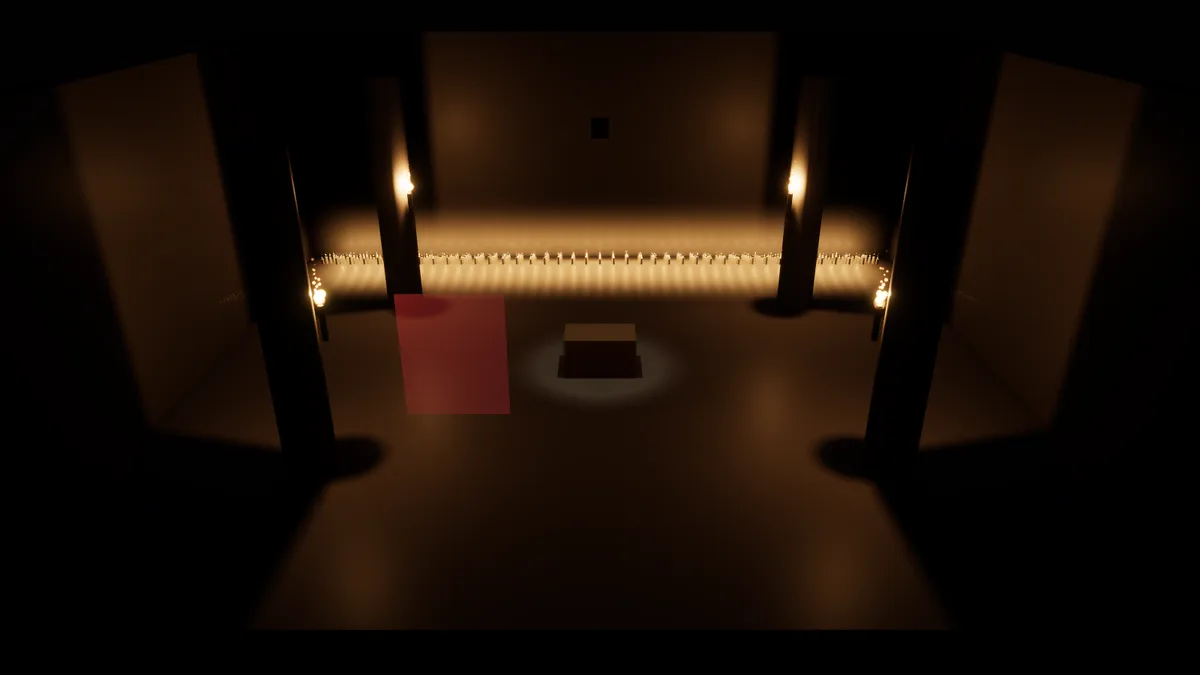
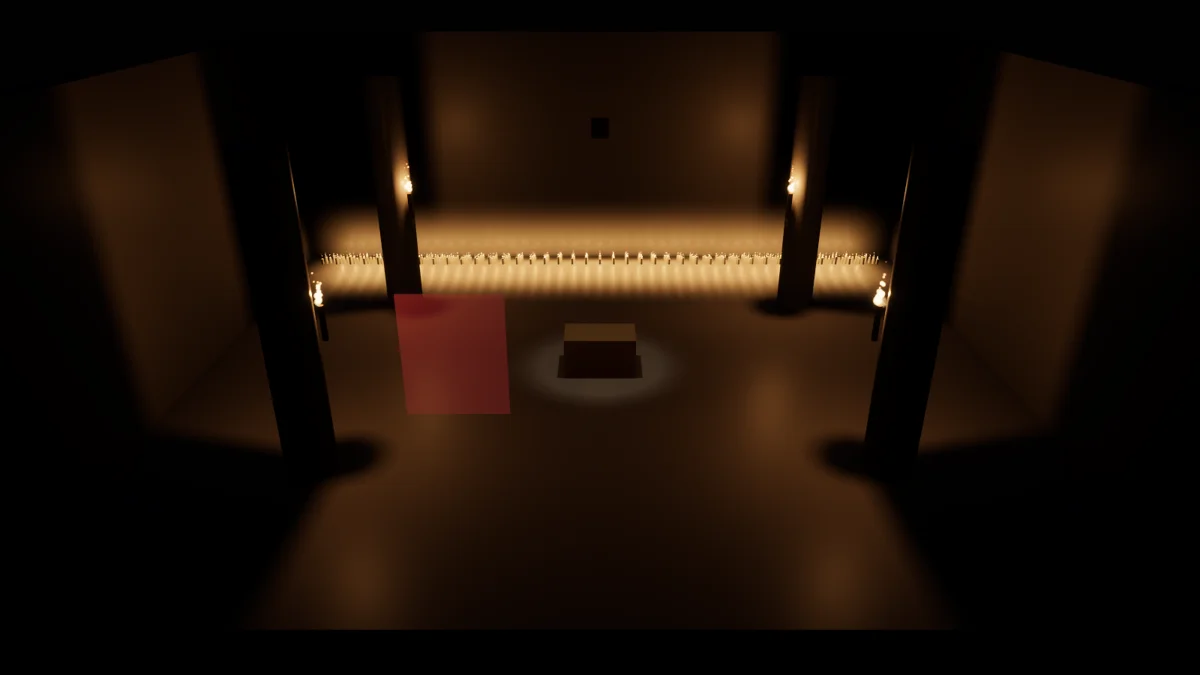
feat: light radius so torches beside walls don't blow them out
A point or spot light now has a radius, the size of its glowing part.
It reaches a point as (1 + r²) / (d² + r²): inverse square far away, the
same at a metre whatever the radius, and capped near 1 / r² close up. A
torch a hand from a pillar no longer burns it white while the room stays
dim. The radius also sets how soft the light's shadows are. It defaults
to 0.1 m, the old fixed softness, and the Crypt's torches use 0.5.

diff --git a/src/Super/View.cs b/src/Super/View.cs
@@ -123,17 +123,22 @@ public sealed class View
     /// the distance, reaching nothing at the range. The key names it across frames, so its
     /// shadow stays as sharp as it moves; use a stable ID. A frame can have up to
     /// <see cref="LocalLight.MaxPerFrame"/>, and lights with shadows share an atlas, so the
-    /// biggest on screen get the sharpest ones. See "Point and spot lights" in docs/views.md.
+    /// biggest on screen get the sharpest ones. The radius is how big the glowing part is:
+    /// raise it for a light right beside a wall, such as a torch in a bracket, so the wall
+    /// isn't blown out. It also softens the shadows. See "Point and spot lights" in
+    /// docs/views.md.
     /// </summary>
-    public void PointLight(int key, Vector3 position, Vector3 color, float range, bool shadows = true)
+    public void PointLight(
+        int key, Vector3 position, Vector3 color, float range, bool shadows = true, float radius = LocalLight.DefaultRadius)
     {
-        CheckLight(position, color, range);
+        CheckLight(position, color, range, radius);
         _lights.Add(new LocalLight
         {
             Key = key,
             Position = position,
             Radiance = color,
             Range = range,
+            Radius = radius,
             CastsShadow = shadows,
         });
     }
@@ -145,9 +150,17 @@ public sealed class View
     /// Otherwise it's like <see cref="PointLight"/>, though it costs a sixth as much shadow.
     /// </summary>
     public void SpotLight(
-        int key, Vector3 position, Vector3 direction, Vector3 color, float range, float innerAngle, float outerAngle, bool shadows = true)
+        int key,
+        Vector3 position,
+        Vector3 direction,
+        Vector3 color,
+        float range,
+        float innerAngle,
+        float outerAngle,
+        bool shadows = true,
+        float radius = LocalLight.DefaultRadius)
     {
-        CheckLight(position, color, range);
+        CheckLight(position, color, range, radius);
         if (!(direction.LengthSquared() > 1e-12f) || !float.IsFinite(direction.LengthSquared()))
         {
             throw new ArgumentException($"A spot light needs a direction to shine in, not {direction}.", nameof(direction));
@@ -171,6 +184,7 @@ public sealed class View
             Position = position,
             Radiance = color,
             Range = range,
+            Radius = radius,
             Direction = Vector3.Normalize(direction),
             InnerAngle = innerAngle,
             OuterAngle = outerAngle,
@@ -178,7 +192,7 @@ public sealed class View
         });
     }
 
-    private void CheckLight(Vector3 position, Vector3 color, float range)
+    private void CheckLight(Vector3 position, Vector3 color, float range, float radius)
     {
         if (_lights.Count >= LocalLight.MaxPerFrame)
         {
@@ -189,6 +203,12 @@ public sealed class View
         if (!(range > 0f) || !float.IsFinite(range))
         {
             throw new ArgumentOutOfRangeException(nameof(range), range, "A light's range must be more than 0 metres.");
+        }
+
+        if (!(radius > 0f && radius < range))
+        {
+            throw new ArgumentOutOfRangeException(
+                nameof(radius), radius, "A light's radius must be more than 0 metres and less than its range.");
         }
 
         if (!float.IsFinite(position.X + position.Y + position.Z))

diff --git a/tests/Super.Tests/LocalLightTests.cs b/tests/Super.Tests/LocalLightTests.cs
@@ -68,6 +68,25 @@ public class LocalLightTests
     }
 
     [Fact]
+    public void A_lights_radius_reaches_the_gpu_and_none_given_means_the_default()
+    {
+        LocalLight[] lights =
+        [
+            Point(1, new Vector3(0f, 0f, -5f), 2f) with { Radius = 0.5f },
+            Point(2, new Vector3(0f, 0f, -6f), 2f),
+            Point(3, new Vector3(0f, 0f, -7f), 2f) with { Radius = float.NaN },
+            Point(4, new Vector3(0f, 0f, -8f), 2f) with { Radius = -1f },
+        ];
+
+        var (_, gpu, _) = Prepare(lights);
+
+        Assert.Equal(0.5f, gpu[0].Fade.Y);
+        Assert.Equal(0.1f, gpu[1].Fade.Y);
+        Assert.Equal(0.1f, gpu[2].Fade.Y);
+        Assert.Equal(0.1f, gpu[3].Fade.Y);
+    }
+
+    [Fact]
     public void A_point_lights_shadow_takes_six_tiles_and_a_spots_one()
     {
         LocalLight[] lights =
@@ -200,6 +219,13 @@ public class LocalLightTests
         Assert.False(view.DrawnLights[0].IsSpot);
         Assert.Equal(-Vector3.UnitY, view.DrawnLights[1].Direction);
         Assert.False(view.DrawnLights[1].CastsShadow);
+        Assert.Equal(0.1f, view.DrawnLights[0].Radius);
+        Assert.Equal(0.1f, view.DrawnLights[1].Radius);
+
+        view.PointLight(3, Vector3.Zero, Vector3.One, 9f, radius: 0.5f);
+        view.SpotLight(4, Vector3.Zero, -Vector3.UnitY, Vector3.One, 6f, 0.3f, 0.6f, radius: 0.25f);
+        Assert.Equal(0.5f, view.DrawnLights[2].Radius);
+        Assert.Equal(0.25f, view.DrawnLights[3].Radius);
 
         view.Begin(0f);
         Assert.Equal(0, view.DrawnLights.Length);
@@ -214,6 +240,13 @@ public class LocalLightTests
         Assert.Contains(
             "A light's range must be more than 0 metres.",
             Assert.Throws<ArgumentOutOfRangeException>(() => view.PointLight(1, Vector3.Zero, Vector3.One, 0f)).Message);
+        const string radius = "A light's radius must be more than 0 metres and less than its range.";
+        Assert.Contains(radius, Assert.Throws<ArgumentOutOfRangeException>(() => view.PointLight(1, Vector3.Zero, Vector3.One, 2f, radius: 0f)).Message);
+        Assert.Contains(radius, Assert.Throws<ArgumentOutOfRangeException>(() => view.PointLight(1, Vector3.Zero, Vector3.One, 2f, radius: 2f)).Message);
+        Assert.Contains(radius, Assert.Throws<ArgumentOutOfRangeException>(() => view.PointLight(1, Vector3.Zero, Vector3.One, 2f, radius: float.NaN)).Message);
+        Assert.Contains(
+            radius,
+            Assert.Throws<ArgumentOutOfRangeException>(() => view.SpotLight(1, Vector3.Zero, Vector3.UnitY, Vector3.One, 2f, 0.1f, 0.4f, radius: -1f)).Message);
         Assert.Contains(
             "A light's color can't be negative",
             Assert.Throws<ArgumentException>(() => view.PointLight(1, Vector3.Zero, -Vector3.One, 1f)).Message);

diff --git a/examples/Crypt/CryptGame.cs b/examples/Crypt/CryptGame.cs
@@ -96,7 +96,9 @@ public sealed class CryptGame : IGame
             view.Model(TorchKey + i, ModelRef.Cylinder, Matrix4x4.CreateScale(0.08f, 0.5f, 0.08f) * Matrix4x4.CreateTranslation(bracket), new Vector3(0.25f, 0.15f, 0.08f));
             var fire = bracket + new Vector3(0f, 0.32f, 0f);
             float flicker = 1f + (0.12f * MathF.Sin(_seconds * 11f + i * 2f)) + (0.08f * MathF.Sin(_seconds * 17f + i));
-            view.PointLight(TorchKey + i, fire + new Vector3(0f, 0.1f, 0f), new Vector3(3.2f, 1.5f, 0.5f) * flicker, range: 9f);
+            // The flame is a hand from the stone, so a radius a little bigger than the fire keeps
+            // the pillar beside it from blowing out while the room gets as much light.
+            view.PointLight(TorchKey + i, fire + new Vector3(0f, 0.1f, 0f), new Vector3(3.2f, 1.5f, 0.5f) * flicker, range: 9f, radius: 0.5f);
             DrawFire(view, FlameKey + i * 1000, Torch, fire);
         }
 

diff --git a/src/Rendition/Passes/LocalLights.cs b/src/Rendition/Passes/LocalLights.cs
@@ -155,7 +155,7 @@ internal sealed class LocalLights
                 DirectionCone = light.IsSpot
                     ? new Vector4(Vector3.Normalize(light.Direction), cosOuter)
                     : new Vector4(0f, 0f, 0f, -2f),
-                Fade = new Vector4(1f / MathF.Max(cosInner - cosOuter, 1e-4f), 0f, 0f, 0f),
+                Fade = new Vector4(1f / MathF.Max(cosInner - cosOuter, 1e-4f), RadiusOf(light), 0f, 0f),
             };
         }
     }
@@ -256,6 +256,10 @@ internal sealed class LocalLights
 
         TileCount = tiles;
     }
+
+    /// <summary>The radius the shaders use: the light's own, or the default when it's 0 or not a size.</summary>
+    internal static float RadiusOf(in LocalLight light) =>
+        light.Radius > 0f && float.IsFinite(light.Radius) ? light.Radius : LocalLight.DefaultRadius;
 
     private static (Vector3 Forward, Vector3 Up) SpotAxes(Vector3 direction)
     {

diff --git a/src/Rendition/Types.cs b/src/Rendition/Types.cs
@@ -250,6 +250,17 @@ public struct LocalLight
     /// <summary>How far the light reaches, in metres. It fades smoothly to nothing there.</summary>
     public float Range;
 
+    /// <summary>The radius a light has when <see cref="Radius"/> is left at 0, in metres.</summary>
+    public const float DefaultRadius = 0.1f;
+
+    /// <summary>
+    /// How big the glowing part is, in metres, such as a torch's flame. Light can't get much
+    /// brighter than it is at this distance, so a bigger radius calms a wall right beside
+    /// the light while leaving it as bright a metre away and beyond. A bigger light also
+    /// casts softer shadows. 0 means <see cref="DefaultRadius"/>.
+    /// </summary>
+    public float Radius;
+
     /// <summary>For a spot, the unit vector it shines along. Ignored for a point light.</summary>
     public Vector3 Direction;
 

diff --git a/src/Rendition/Passes/FrameUniforms.cs b/src/Rendition/Passes/FrameUniforms.cs
@@ -131,7 +131,7 @@ internal struct GpuLocalLight
     /// <summary>xyz: which way a spot shines; w: the cosine of its outer angle, or -2 for a point light.</summary>
     public Vector4 DirectionCone;
 
-    /// <summary>x: one over the cosines between the inner and outer angles, for the spot's fade.</summary>
+    /// <summary>x: one over the cosines between the inner and outer angles, for the spot's fade; y: its radius.</summary>
     public Vector4 Fade;
 }
 

diff --git a/docs/rendering.md b/docs/rendering.md
@@ -32,7 +32,7 @@ past 1. The first sun casts the shadows.
 ![The Crypt example: torches, a lantern and 246 candles](media/crypt.webp)
 
 ```csharp
-view.PointLight(torch.Id, torch.Flame, color: new Vector3(3.2f, 1.5f, 0.5f), range: 9f);
+view.PointLight(torch.Id, torch.Flame, color: new Vector3(3.2f, 1.5f, 0.5f), range: 9f, radius: 0.5f);
 view.PointLight(candle.Id, candle.Wick, new Vector3(0.12f, 0.06f, 0.02f), range: 1.4f, shadows: false);
 view.SpotLight(lantern.Id, lantern.Position, direction: -Vector3.UnitY, new Vector3(6f, 5.5f, 4.5f),
     range: 7f, innerAngle: 0.25f, outerAngle: 0.4f);
@@ -44,6 +44,16 @@ away. It dims with the square of the distance and fades smoothly to nothing at t
 range, so a small range is cheaper and keeps a candle's light on its own table. A spot
 is full inside its inner angle and fades out by its outer one. Both angles are measured
 from the direction, in radians, and the outer one must be under a right angle.
+
+A light also has a radius, the size of its glowing part, 0.1 m unless you pass
+`radius:`. No surface gets much brighter than it would be that far from the light. On
+its own, the square of the distance makes a torch a hand from a wall blow the stone out
+white while the room stays dim. A bigger radius calms the wall but leaves the light
+just as bright a metre away and beyond, so raise it for lights in brackets, sconces and
+lamps against walls. The Crypt's torches use 0.5. A bigger light also casts softer
+shadows. The radius must be less than the range.
+
+![A torch on a pillar with the default radius of 0.1 and with 0.5](media/torch-radius.webp)
 
 Draw lights in `Draw` like everything else, each frame, so a torch can flicker by
 changing its colour. The key names the light from frame to frame, the same as a model's

diff --git a/docs/design.md b/docs/design.md
@@ -623,7 +623,11 @@ cluster tests every light's sphere against a sphere round the cluster's box, and
 cone too, and writes up to 256 indices, 16 bits each. The lighting pass,
 glass and particles read only their pixel's cluster. Each light is a 64-byte
 `GpuLocalLight`: position and range, radiance and its first shadow tile, direction and
-the cosine of the outer angle (-2 for a point light), and the fade's scale.
+the cosine of the outer angle (-2 for a point light), and the fade's scale and the
+light's radius. A light reaches a point as `(1 + r²) / (d² + r²)` times its windowed
+falloff: plain inverse square far away, 1 at a metre whatever the radius, and no more
+than about `1 / r²` close up, so a torch on a wall lights the room without blowing the
+wall out.
 
 Shadows share one 4096 x 4096 depth atlas in tiles of 64 to 512 pixels. Each shadowed
 light asks for a tile as wide as its reach looks on screen, rounded up to a power of
@@ -636,7 +640,7 @@ two with no gaps. Each tile's projection is widened by three texels so the soft 
 doesn't read across its edge, and its depth is reversed with the light's range at 0. The
 shadow pass draws every tile in one render pass, a viewport each, with its own culling
 and detail choice, and the shading is the sun's blocker search and filter scaled to a
-small light (`LOCAL_LIGHT_SIZE`). Glass and particles take the lights without shadows.
+light 0.8 times its radius wide (`SHADOW_WIDTH_PER_RADIUS`). Glass and particles take the lights without shadows.
 
 Two frames can be in flight. Render targets are shared between frames, and
 pipeline barriers order the access; per-frame state is limited to command

diff --git a/docs/views.md b/docs/views.md
@@ -55,8 +55,8 @@ component on its entity instead. See [Audio](audio.md).
 | `view.Camera(position, lookAt, fieldOfView)` | A fixed camera. See [Cameras](cameras.md) for the rest |
 | `view.Camera(camera)` | A `Camera` value the game keeps |
 | `view.Sun(direction, color)` | A directional light. `color` is linear and can go past 1 |
-| `view.PointLight(key, position, color, range, shadows)` | A light shining every way, like a candle or a torch. See [Point and spot lights](rendering.md#point-and-spot-lights) |
-| `view.SpotLight(key, position, direction, color, range, innerAngle, outerAngle, shadows)` | A light shining in a cone, like a lantern's beam |
+| `view.PointLight(key, position, color, range, shadows, radius)` | A light shining every way, like a candle or a torch. See [Point and spot lights](rendering.md#point-and-spot-lights) |
+| `view.SpotLight(key, position, direction, color, range, innerAngle, outerAngle, shadows, radius)` | A light shining in a cone, like a lantern's beam |
 | `view.Model(key, model, transform, color)` | A model. `color`, if given, tints it and keeps its textures. `ModelRef.Cube`, `Sphere`, `Capsule`, `Cylinder`, `Cone`, `Plane`, `Quad` and `Torus` are [built in](rendering.md#built-in-shapes) |
 | `view.Ghost(key, model, transform, color, opacity)` | A model in one colour that glows a little, as a [preview of where something will go](rendering.md#ghosts) |
 | `view.Shadows(radius, cascades)` | How far shadows reach. See [Rendering](rendering.md#shadows) |
